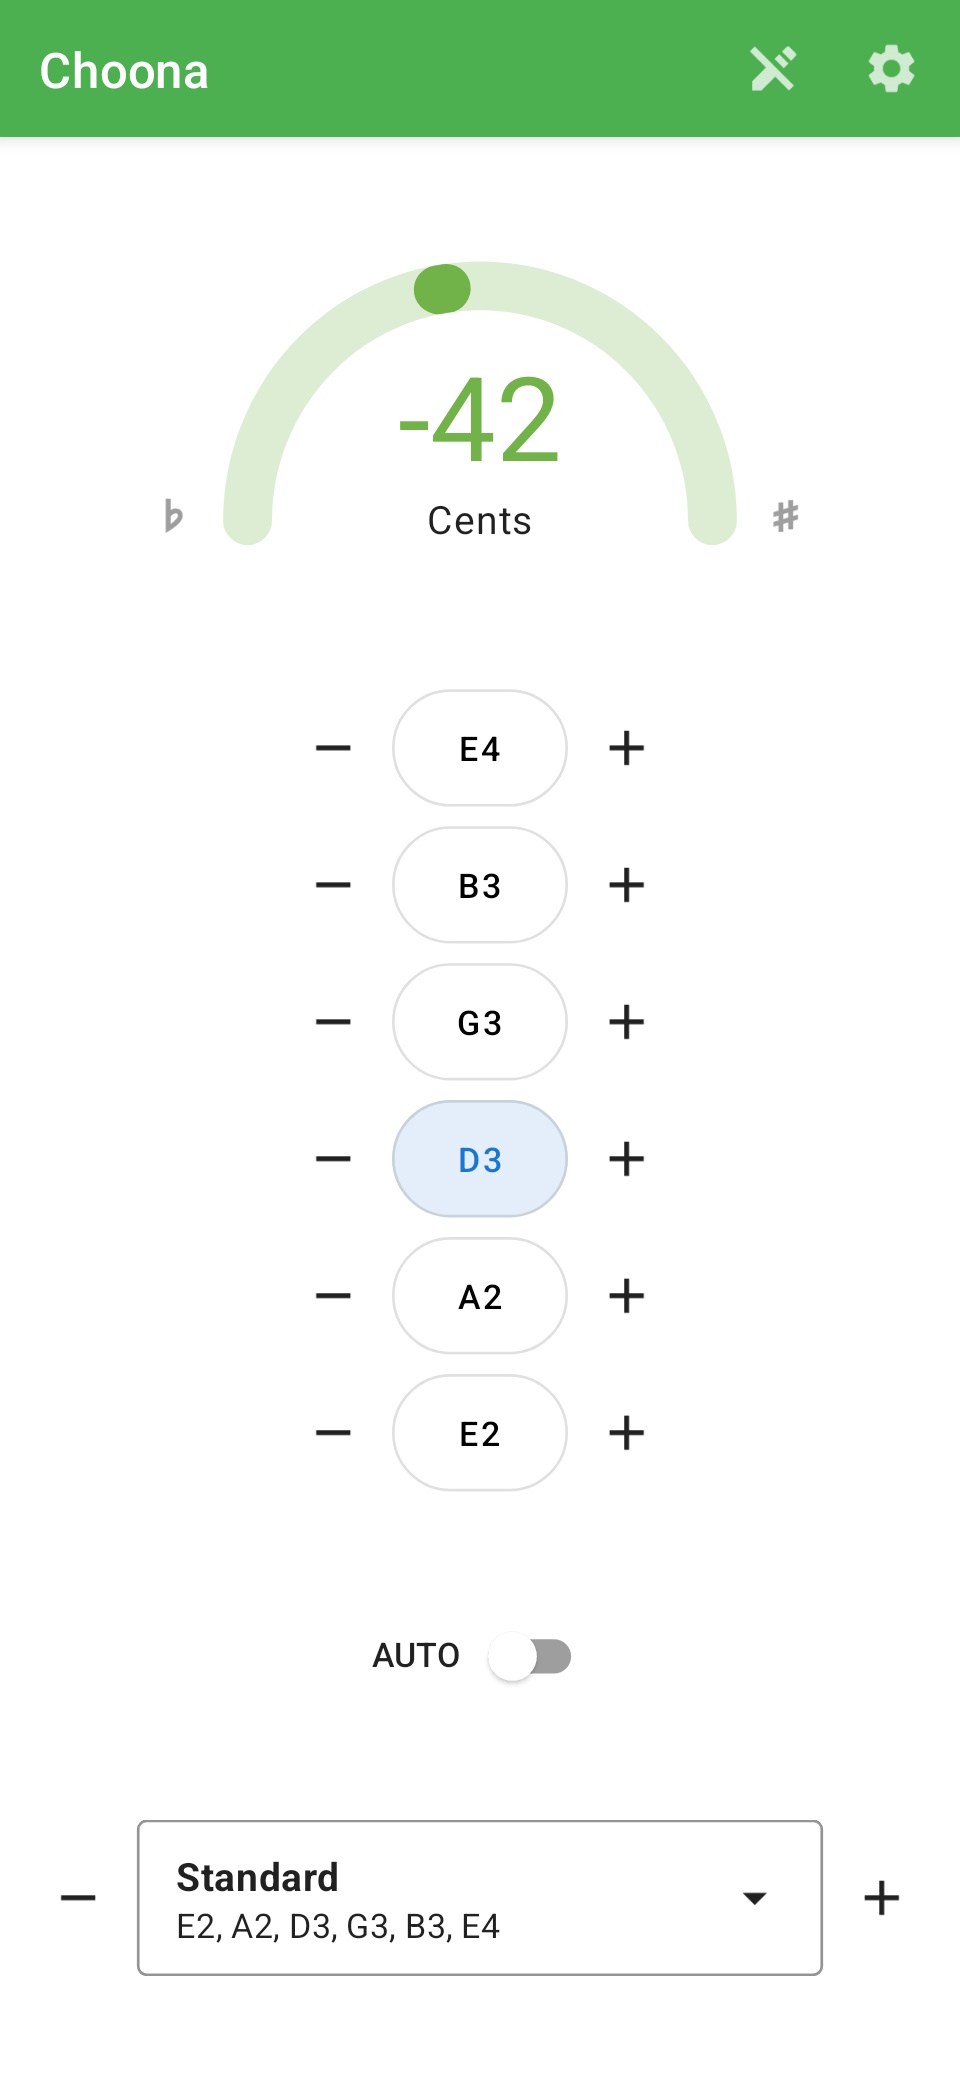
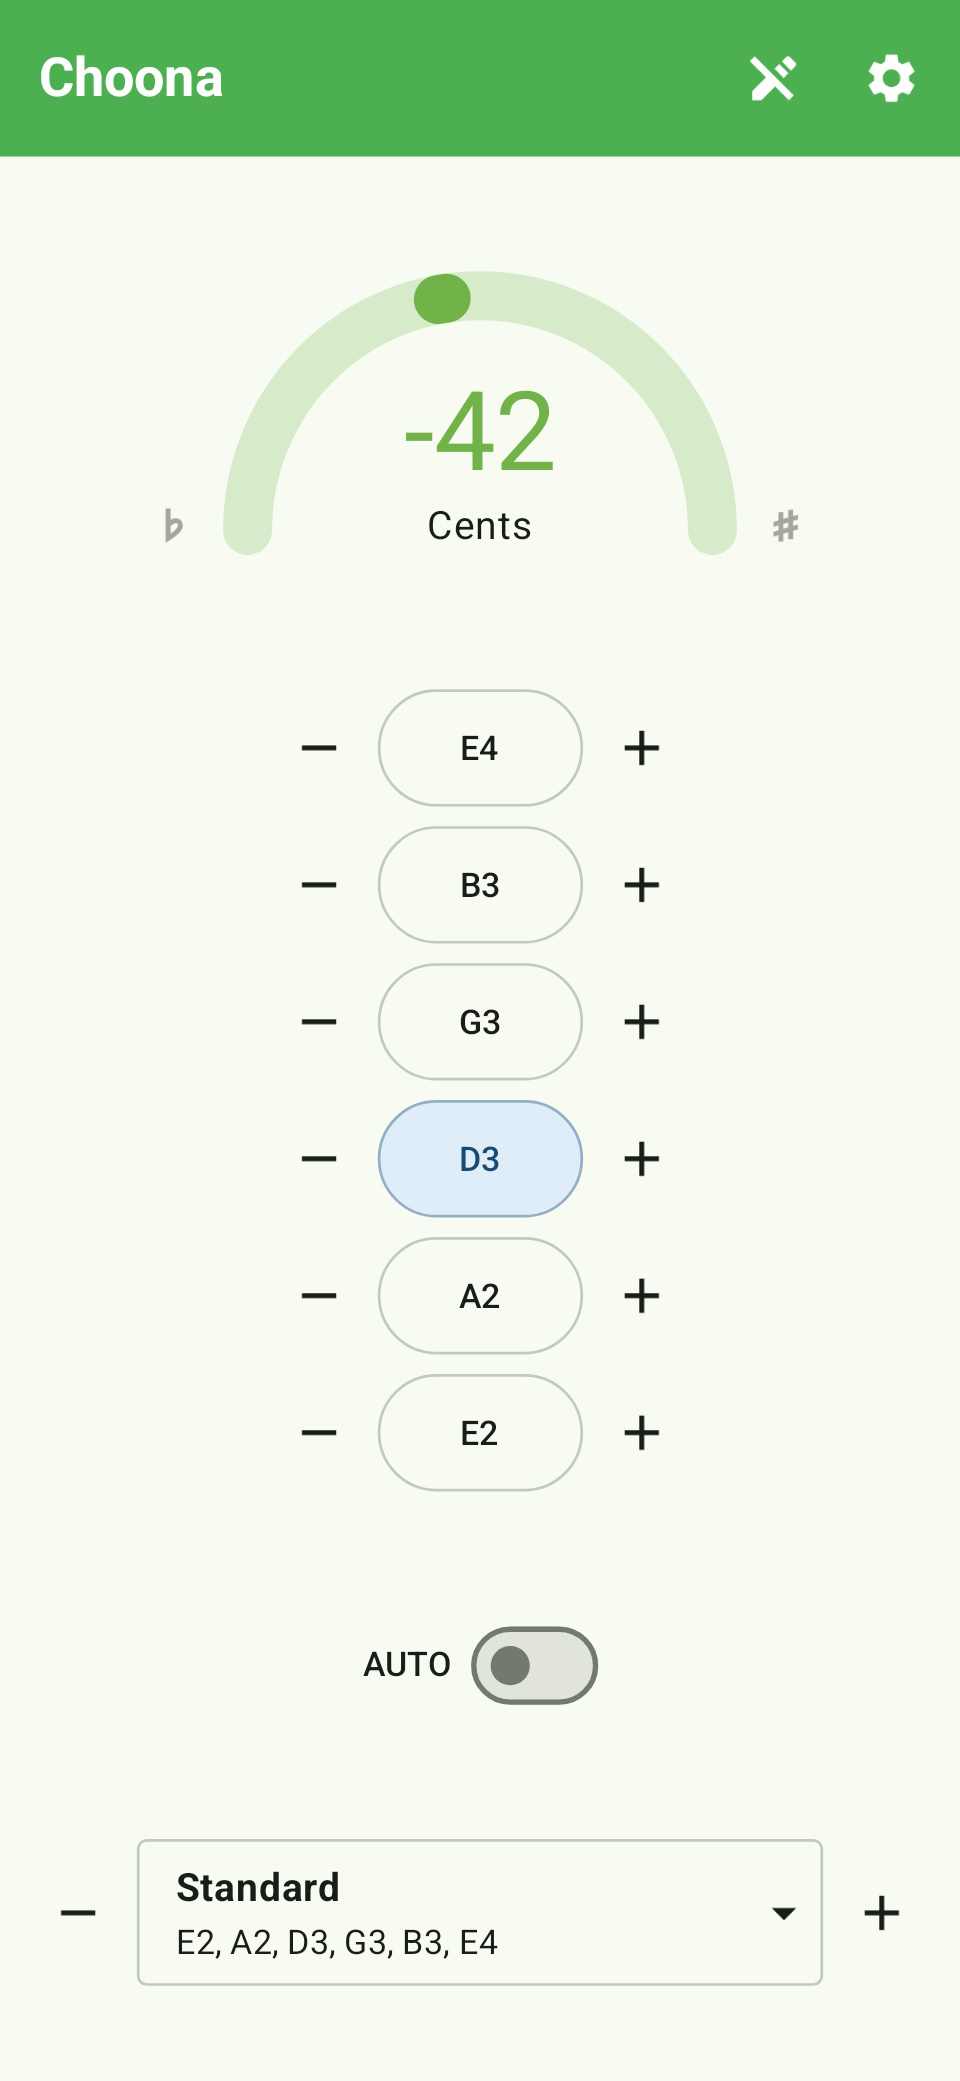
Updated README and screenshots.

diff --git a/app/src/debug/java/com/rohankhayech/choona/view/Screenshots.kt b/app/src/debug/java/com/rohankhayech/choona/view/Screenshots.kt
@@ -24,6 +24,7 @@ import androidx.compose.material.icons.filled.Close
 import androidx.compose.material3.windowsizeclass.ExperimentalMaterial3WindowSizeClassApi
 import androidx.compose.material3.windowsizeclass.WindowSizeClass
 import androidx.compose.runtime.Composable
+import androidx.compose.runtime.mutableDoubleStateOf
 import androidx.compose.runtime.mutableStateOf
 import androidx.compose.runtime.remember
 import androidx.compose.ui.tooling.preview.Preview
@@ -32,7 +33,7 @@ import androidx.compose.ui.unit.dp
 import androidx.lifecycle.compose.collectAsStateWithLifecycle
 import com.rohankhayech.android.util.ui.preview.CompactOrientationPreview
 import com.rohankhayech.android.util.ui.preview.DarkPreview
-import com.rohankhayech.android.util.ui.preview.TabletPreview
+import com.rohankhayech.android.util.ui.preview.TabletThemePreview
 import com.rohankhayech.choona.model.preferences.StringLayout
 import com.rohankhayech.choona.model.preferences.TunerPreferences
 import com.rohankhayech.choona.model.preferences.TuningDisplayType
@@ -49,7 +50,7 @@ import com.rohankhayech.music.Tuning
 // Previews for generating screenshots.
 
 @OptIn(ExperimentalMaterial3WindowSizeClassApi::class)
-@Preview
+@DarkPreview
 @Composable
 private fun TunerScreenshot() {
     AppTheme {
@@ -71,7 +72,7 @@ private fun TunerScreenshot() {
 }
 
 @OptIn(ExperimentalMaterial3WindowSizeClassApi::class)
-@Preview
+@DarkPreview
 @Composable
 private fun InTuneScreenshot() {
     AppTheme {
@@ -80,7 +81,7 @@ private fun InTuneScreenshot() {
             expanded = false,
             windowSizeClass = WindowSizeClass.calculateFromSize(DpSize(411.dp, 891.dp)),
             tuning = Tunings.DROP_D,
-            noteOffset = remember { mutableStateOf(0.01)},
+            noteOffset = remember { mutableDoubleStateOf(0.01) },
             selectedString = 5,
             tuned = BooleanArray(6) { it == 5 },
             autoDetect = true,
@@ -92,7 +93,7 @@ private fun InTuneScreenshot() {
     }
 }
 
-@Preview
+@DarkPreview
 @Composable
 private fun SelectionScreenshot() {
     val tunings = TuningList(Tunings.WHOLE_STEP_DOWN).apply {
@@ -112,7 +113,7 @@ private fun SelectionScreenshot() {
 }
 
 @SuppressLint("StateFlowValueCalledInComposition")
-@Preview
+@DarkPreview
 @Composable
 private fun CustomScreenshot() {
     val current = Tuning.fromString("F4 C4 G#3 D#3 A#2 F2")
@@ -146,7 +147,7 @@ private fun CustomScreenshot() {
 }
 
 @OptIn(ExperimentalMaterial3WindowSizeClassApi::class)
-@Preview
+@DarkPreview
 @Composable
 private fun SemitonesScreenshot() {
     AppTheme {
@@ -195,7 +196,7 @@ private fun CentsScreenshot() {
 }
 
 @Composable
-@Preview
+@DarkPreview
 private fun SettingsScreenshot() {
     AppTheme {
         SettingsScreen(
@@ -204,28 +205,6 @@ private fun SettingsScreenshot() {
             ),
             pinnedTuning = "Standard",
             {},{},{},{},{},{},{}, {}, {}, {}
-        )
-    }
-}
-
-@OptIn(ExperimentalMaterial3WindowSizeClassApi::class)
-@DarkPreview
-@Composable
-private fun DarkThemeScreenshot() {
-    AppTheme {
-        TunerScreen(
-            compact = false,
-            expanded = false,
-            windowSizeClass = WindowSizeClass.calculateFromSize(DpSize(411.dp, 891.dp)),
-            tuning = Tunings.DROP_D,
-            noteOffset = remember { mutableStateOf(-0.2)},
-            selectedString = 3,
-            tuned = BooleanArray(6) { it==5 || it==4 },
-            autoDetect = true,
-            favTunings = remember { mutableStateOf(emptySet()) },
-            customTunings = remember { mutableStateOf(emptySet()) },
-            prefs = TunerPreferences(),
-            {}, {}, {}, {}, {}, {}, {}, {}, {}, {}, {}, true, {}
         )
     }
 }
@@ -258,7 +237,7 @@ private fun BlackThemeScreenshot() {
 @CompactOrientationPreview
 @Composable
 private fun SplitScreenScreenshot() {
-    AppTheme {
+    AppTheme(darkTheme = true) {
         TunerScreen(
             compact = true,
             expanded = false,
@@ -277,7 +256,7 @@ private fun SplitScreenScreenshot() {
 }
 
 @OptIn(ExperimentalMaterial3WindowSizeClassApi::class)
-@TabletPreview
+@TabletThemePreview
 @Composable
 private fun TabletScreenshot() {
     val tunings = TuningList(Tunings.WHOLE_STEP_DOWN).apply {

diff --git a/README.md b/README.md
@@ -12,25 +12,25 @@ Guitar tuner application for Android with support for custom tunings.
 - Display tuning offset in semitones or cents for improved accuracy.
 - Plays sounds to indicate how a string should sound and when it is in tune.
 - Keep track of your favourite tunings.
-- Support for dark mode and includes true dark theme.
+- Set a tuning to open automatically when the app starts, or keep the last used tuning.
+- Support for dark mode, true dark and device colour themes.
 - Support for multi-window and large screen devices.
 
 ## Screenshots
 
-<img src="assets/screenshots/01-tuner.jpg" width=30%> 
+<img src="assets/screenshots/01-tuner.jpg" width=30%> <img src="assets/screenshots/02-in_tune.jpg" width=20%>
 
 <details>
   <summary>
     View All
   </summary>
   <br>
-  <img src="assets/screenshots/02-in_tune.jpg" width=20%> <img src="assets/screenshots/03-selection.jpg" width=20%> 
-  <img src="assets/screenshots/04-custom.jpg" width=20%> <img src="assets/screenshots/05-semitones.jpg" width=20%>
-
-  <img src="assets/screenshots/06-cents.jpg" width=20%> <img src="assets/screenshots/07-settings.jpg" width=20%> 
-  <img src="assets/screenshots/08-dark_theme.jpg" width=20%> <img src="assets/screenshots/09-black_theme.jpg" width=20%>
-  
-  <img src="assets/screenshots/10-splitscreen.jpg" width="40%"> <img src="assets/screenshots/11-tablet.jpg" width=40%>
+  <img src="assets/screenshots/03-selection.jpg" width=20%> <img src="assets/screenshots/04-custom.jpg" width=20%>
+  <img src="assets/screenshots/05-semitones.jpg" width=20%> <img src="assets/screenshots/06-cents.jpg" width=20%> 
+  <img src="assets/screenshots/07-settings.jpg" width=20%> <img src="assets/screenshots/08-black_theme.jpg" width=20%>
+  <img src="assets/screenshots/09-splitscreen.jpg" width="40%"> 
+  <img src="assets/screenshots/10-tablet.jpg" width=40%>
+  <img src="assets/screenshots/11-tablet.jpg" width=40%>
 </details>
 
 ## Installation
